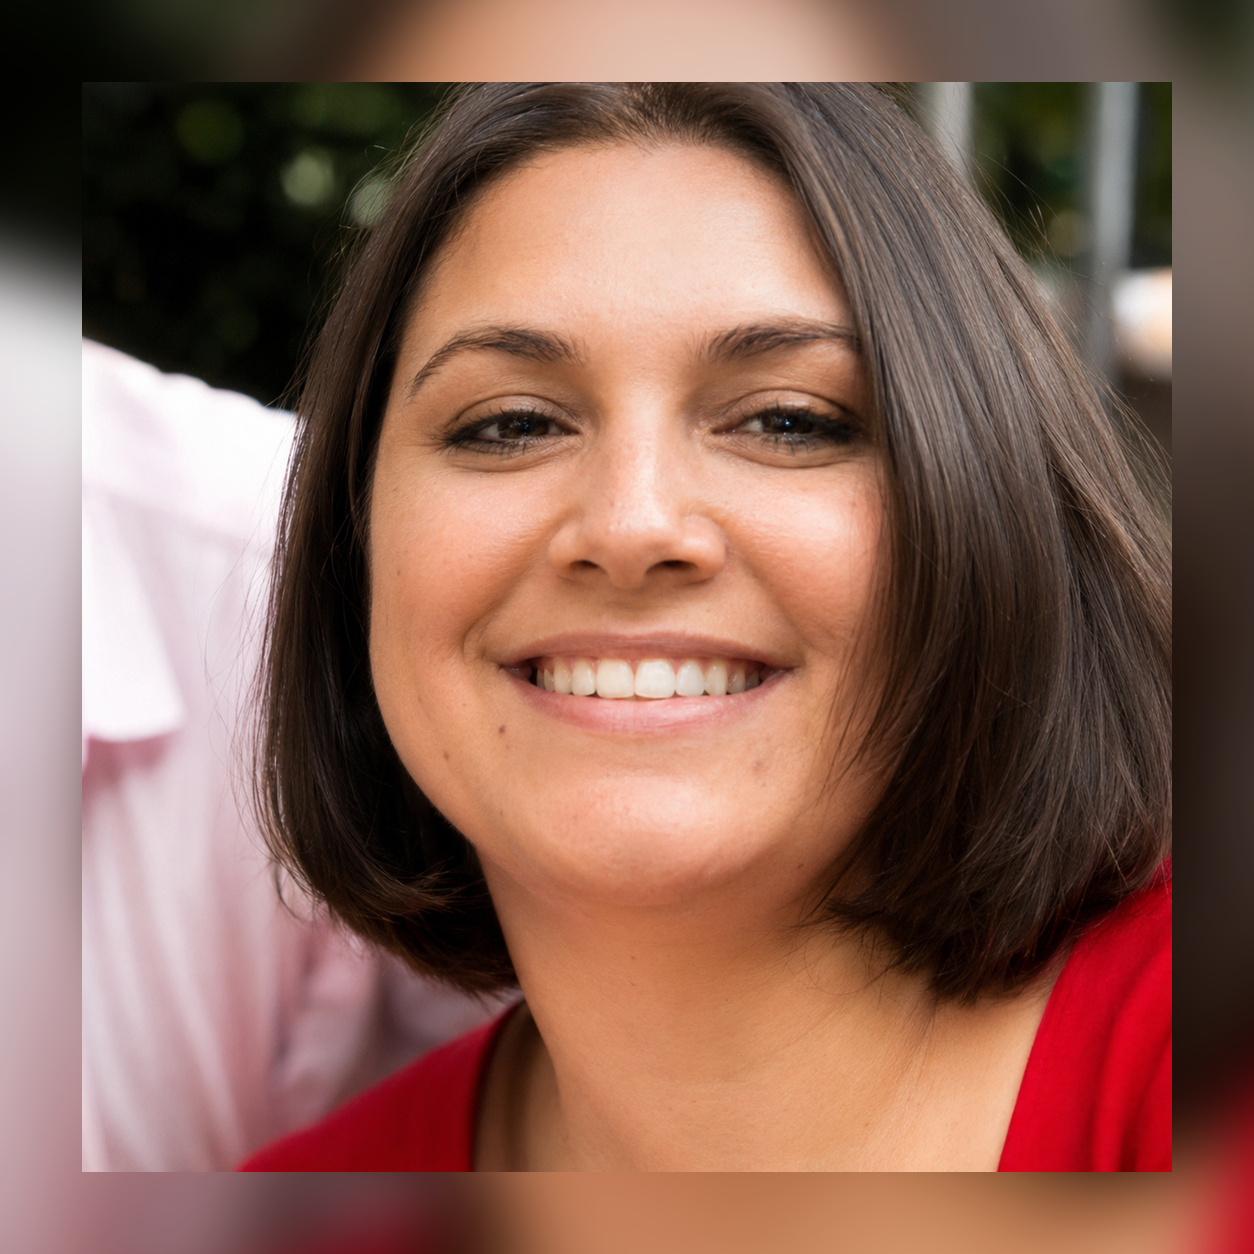
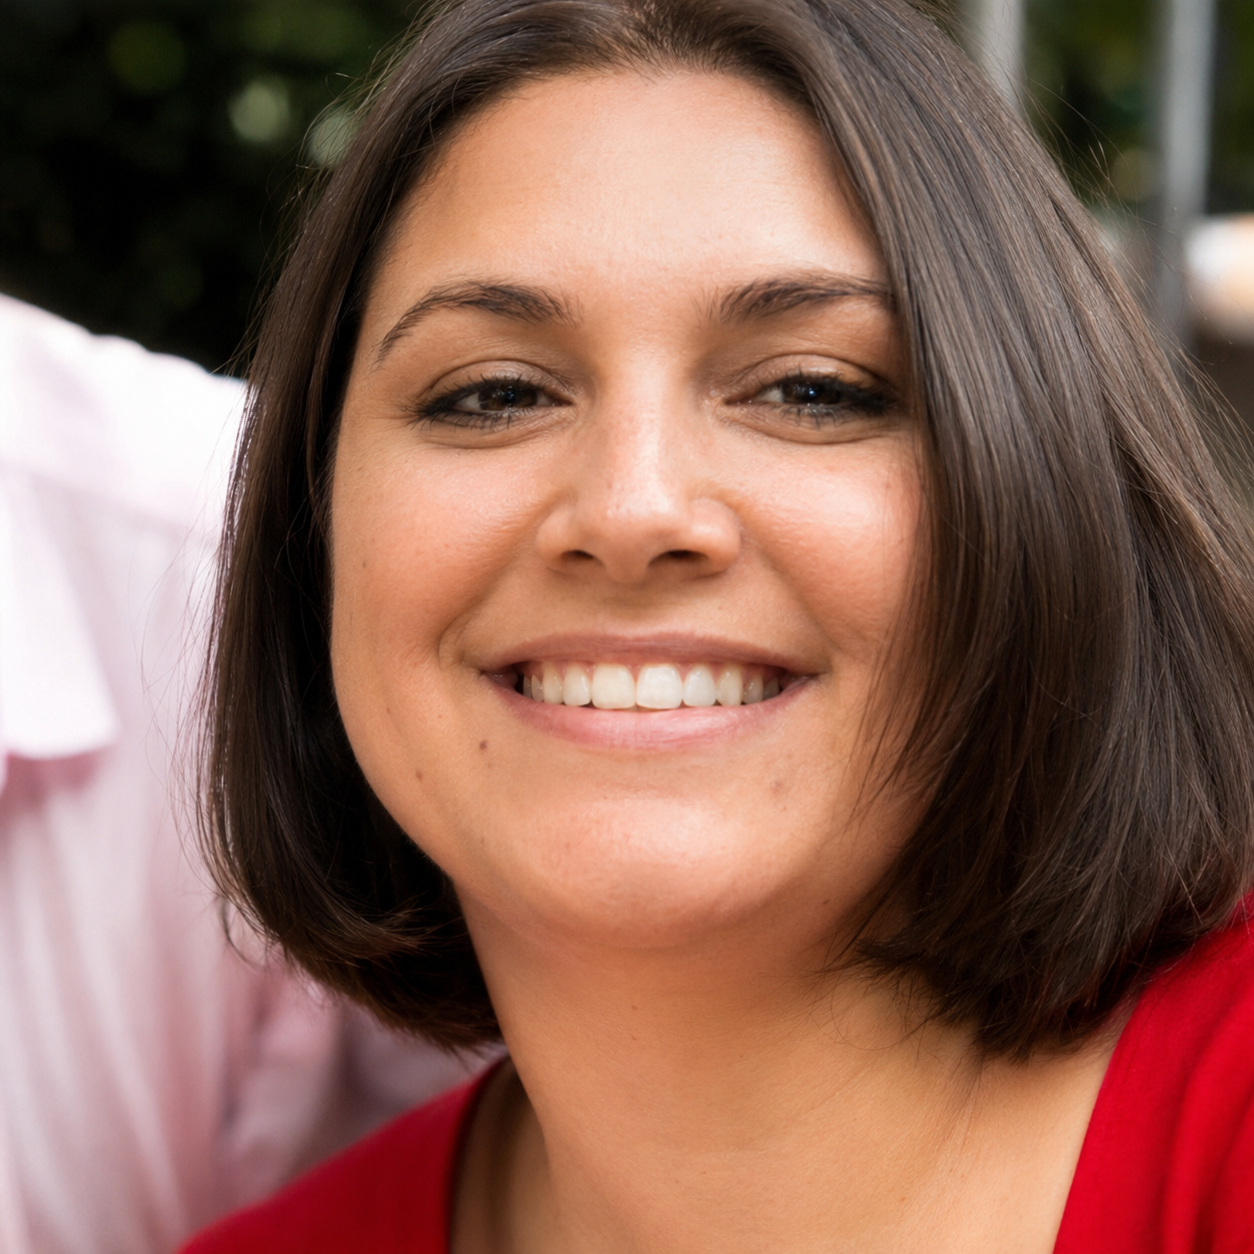
Add files via upload

diff --git a/index.html b/index.html
@@ -462,6 +462,24 @@
       linear-gradient(90deg, rgba(232,119,34,0.03) 1px, transparent 1px);
     background-size: 60px 60px;
     pointer-events: none;
+    z-index: 1;
+  }
+  .hero-bg {
+    position: absolute; inset: 0;
+    background-image: url('centraal-station.webp');
+    background-size: cover;
+    background-position: center 30%;
+    filter: sepia(0.55) saturate(1.4) hue-rotate(-8deg) contrast(1.05) brightness(0.55);
+  }
+  .hero-bg-tint {
+    position: absolute; inset: 0;
+    background: #e87722;
+    mix-blend-mode: color;
+    opacity: 0.5;
+  }
+  .hero-bg-scrim {
+    position: absolute; inset: 0;
+    background: linear-gradient(180deg, rgba(8,5,2,0.55), rgba(8,5,2,0.75) 60%, rgba(8,5,2,0.9));
   }
 
   /* ── HERO LAYOUT WITH PORTRAIT ── */
@@ -523,7 +541,7 @@
     max-width: 740px;
     width: 100%;
     min-width: 0;
-    text-align: center;
+    text-align: left;
   }
 
   .hero-title {
@@ -539,7 +557,7 @@
     font-size: clamp(1.3rem, 4vw, 3.8rem);
     font-weight: 700;
     color: var(--accent);
-    display: flex; align-items: center; justify-content: center;
+    display: flex; align-items: center; justify-content: flex-start;
     min-height: 1.2em;
     margin-top: 0.1em;
   }
@@ -551,7 +569,7 @@
   }
   @keyframes blink { 0%,100%{opacity:1} 50%{opacity:0} }
 
-  .hero-body { margin-top: 2.5rem; max-width: 600px; margin-left: auto; margin-right: auto; }
+  .hero-body { margin-top: 2.5rem; max-width: 600px; }
   .accent-bar { width: 100%; height: 1px; background: #3a3a3a; margin-bottom: 1.2rem; border: none; }
   .hero-body p { font-size: 1rem; line-height: 1.85; color: #b5b5b5; margin-bottom: 0.8rem; text-align: left; }
 
@@ -1237,6 +1255,8 @@
     .hero-inner { flex-direction: column; align-items: center; }
     .hero-text { text-align: center; }
     .hero-sub { justify-content: center; }
+    .hero-body { margin-left: auto; margin-right: auto; }
+    .hero-ctas { justify-content: center; }
     .site-footer { padding: 1.6rem 1.1rem 1rem; }
     .site-footer-inner { grid-template-columns: 1fr; gap: 1rem; }
   }
@@ -1378,7 +1398,7 @@
     content: '—'; position: absolute; left: 0;
     color: var(--accent); font-weight: 700;
   }
-  .hero-ctas { display: flex; gap: 1rem; flex-wrap: wrap; justify-content: center; }
+  .hero-ctas { display: flex; gap: 1rem; flex-wrap: wrap; justify-content: flex-start; }
   .cta-primary {
     background: transparent; color: var(--accent); border: 1px solid var(--accent); cursor: pointer;
     font-family: 'Orbitron', sans-serif; font-size: 0.65rem;
@@ -2272,6 +2292,9 @@
 <!-- ══════════ HOME ══════════ -->
 <div class="page active" id="home">
   <div class="hero">
+    <div class="hero-bg"></div>
+    <div class="hero-bg-tint"></div>
+    <div class="hero-bg-scrim"></div>
     <div class="hero-inner">
 
       <div class="hero-text">
@@ -2648,7 +2671,7 @@
 <div class="gflip-front">
           <div style="display:flex;align-items:center;gap:0.9rem;">
             <div style="width:48px;height:48px;border-radius:50%;overflow:hidden;flex-shrink:0;border:2px solid rgba(255,255,255,0.85);background:#2a2a2a;position:relative;">
[2 lines of base64/hex data omitted]
               <div style="display:none;position:absolute;inset:0;background:linear-gradient(135deg,#c4621a,#8a3e08);align-items:center;justify-content:center;font-family:'Orbitron',sans-serif;font-size:0.75rem;font-weight:700;color:#f7ecd9;">A</div>
             </div>
             <div>
@@ -2660,7 +2683,7 @@
           <div class="testimonial-text" style="font-style:normal;">"Very helpful, explaining in detail and adjusting the lesson depending on my learning style."</div>
         </div>
 <div class="gflip-back testimonial-photo-back">
-          <img src="testimonial-antzela-full.jpg.png" alt="Antzela" class="testimonial-photo-img">
+          <img src="testimonial-antzela-full.jpg.png" alt="Antzela" class="testimonial-photo-img" style="object-position:50% 38%;">
           <div class="testimonial-photo-caption">
             <div class="testimonial-photo-name">Antzela</div>
             <div class="testimonial-photo-date">December 2, 2025</div>
